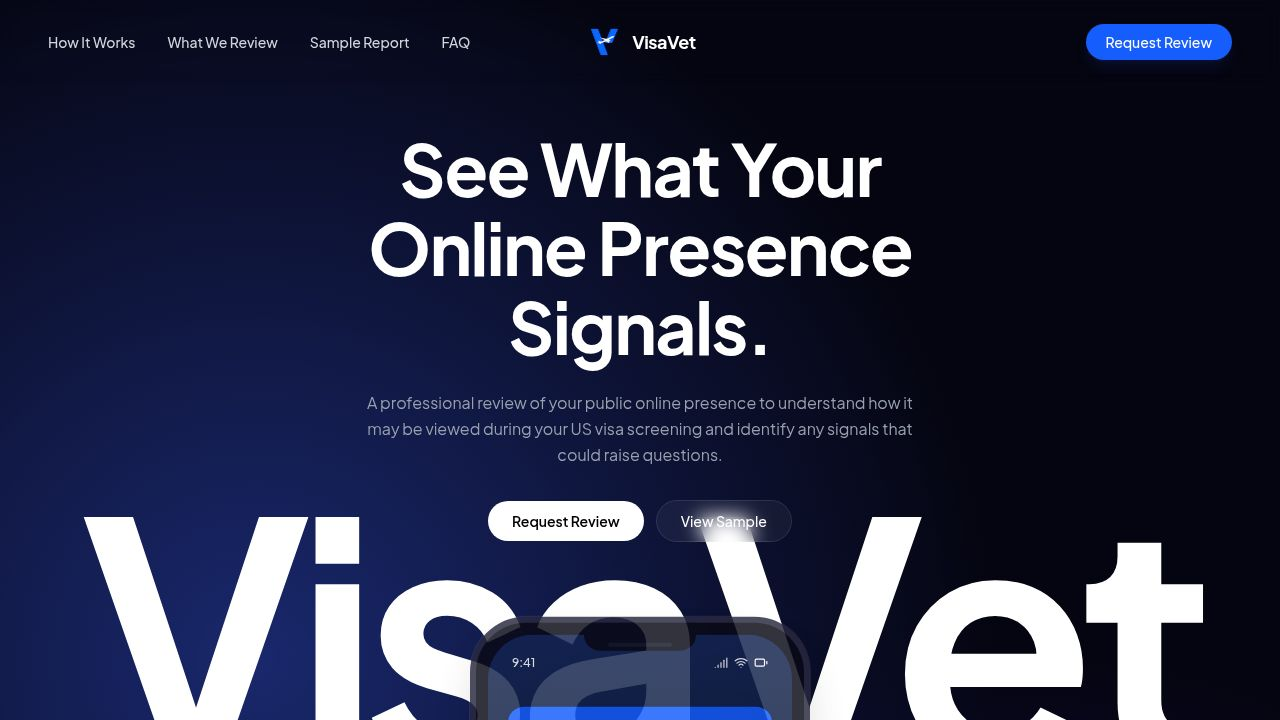
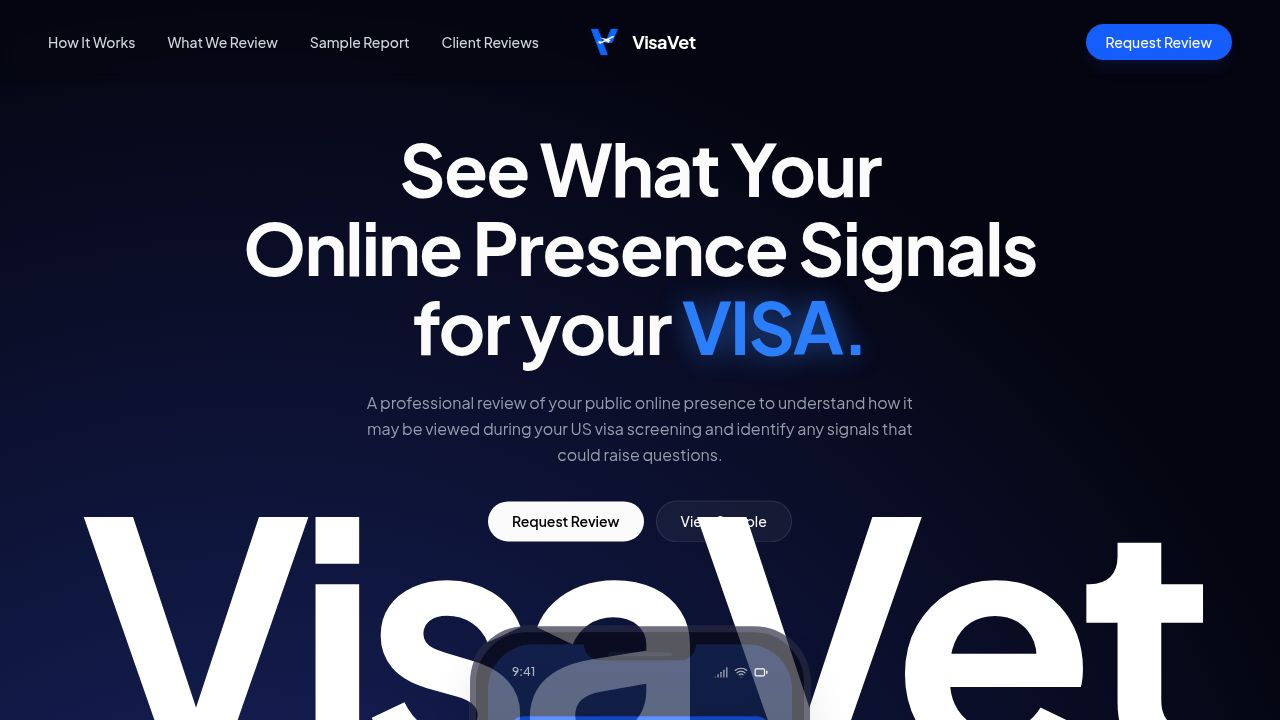
Enhance landing page with interactive reviews and mobile navigation
Adds new review items, interactive modals for step details, and implements a mobile menu with smooth scrolling functionality.

Replit-Commit-Author: Agent
Replit-Commit-Session-Id: 15fbfcdf-bfc7-42cf-a744-494d70a3ce22
Replit-Commit-Checkpoint-Type: full_checkpoint
Replit-Commit-Event-Id: e76417d7-95d0-41df-b2de-f3492c9a7300
Replit-Commit-Screenshot-Url: https://storage.googleapis.com/screenshot-production-us-central1/3131b18d-1d9a-4f0e-a2f7-0a3085cf325a/15fbfcdf-bfc7-42cf-a744-494d70a3ce22/UreXIki
Replit-Helium-Checkpoint-Created: true

diff --git a/client/src/pages/home.tsx b/client/src/pages/home.tsx
@@ -6,7 +6,10 @@ import {
   CheckCircle2, 
   ShieldCheck, 
   Download,
-  Info
+  Info,
+  Menu,
+  X as XIcon,
+  User
 } from "lucide-react";
 import logoImg from "@assets/Pink_Black_and_White_Pixelated_Pixel_Dust_Marketing_Agency_Log_1766923995371.png";
 import xLogo from "@assets/X_logo_1766920324567.png";
@@ -21,19 +24,65 @@ import { useState } from "react";
 export default function Home() {
   const [location, setLocation] = useLocation();
   const [openStep, setOpenStep] = useState<number | null>(null);
+  const [openReview, setOpenReview] = useState<number | null>(null);
+  const [mobileMenuOpen, setMobileMenuOpen] = useState(false);
 
   const scrollToSection = (id: string) => {
     const element = document.getElementById(id);
     if (element) {
       element.scrollIntoView({ behavior: 'smooth' });
+      setMobileMenuOpen(false);
     }
   };
+
+  const reviewItems = [
+    { 
+      title: "Public Posts & Content", 
+      desc: "Visible posts, captions, and shared content that contribute to your public narrative.",
+      detail: "We review publicly visible posts, captions, shared media, and text content across disclosed platforms. The focus is not on volume or frequency, but on the overall narrative created by what is visible.\n\nThis includes how topics, tone, and themes appear when viewed together rather than in isolation. Content is interpreted in context, accounting for time, platform norms, and relevance to your stated background.\n\nThe goal is to identify whether your public content presents a clear, neutral, and coherent public presence when reviewed at face value."
+    },
+    { 
+      title: "Profile Bios & Descriptions", 
+      desc: "How your self-descriptions align across platforms and with your application story.",
+      detail: "We examine profile bios, headlines, and self-descriptions across platforms to assess how consistently you describe yourself publicly.\n\nThis includes education, professional identity, affiliations, and role descriptions, and whether these align with each other and with the information typically presented in visa applications.\n\nInconsistencies are not treated as errors by default, but are noted where they could create ambiguity or confusion in a formal review setting."
+    },
+    { 
+      title: "Timeline Consistency", 
+      desc: "Public activity patterns that align with stated education, work, and travel history.",
+      detail: "We assess whether publicly visible activity patterns align broadly with your stated education, work history, and travel timeline.\n\nThis does not involve assumptions about private activity. Instead, we look at whether public signals create a reasonable and internally consistent timeline when viewed externally.\n\nThis step helps identify areas where additional clarification or context may be useful."
+    },
+    { 
+      title: "Platform Cross-Alignment", 
+      desc: "Whether different platforms tell a coherent and consistent story.",
+      detail: "Different platforms often serve different purposes. We review how your presence appears when platforms are viewed together, rather than individually.\n\nThis includes differences in tone, identity presentation, and level of formality, and whether these variations still form a coherent overall profile.\n\nThe aim is not uniformity, but recognizability and consistency at a high level."
+    },
+    { 
+      title: "Visible Affiliations", 
+      desc: "Publicly visible groups, pages, or interests you are associated with.",
+      detail: "We review publicly visible groups, pages, follows, and stated interests where accessible.\n\nThis review focuses on visibility and association, not private beliefs or intent. Affiliations are considered in context and without inference beyond what is publicly displayed.\n\nOnly clearly visible, public associations are included in this assessment."
+    },
+    { 
+      title: "Interaction Patterns", 
+      desc: "How public comments, reactions, and engagements appear in context.",
+      detail: "We examine publicly visible comments, reactions, and engagements to understand how interactions appear when viewed collectively.\n\nThis includes tone, frequency, and context, without attempting to interpret private meaning or intent.\n\nThe purpose is to assess whether public interactions contribute to a stable and professional outward presence."
+    },
+    { 
+      title: "Name & Identity Signals", 
+      desc: "Username choices, naming consistency, and recognizability across platforms.",
+      detail: "We review usernames, display names, and profile identifiers to understand how easily your identity can be recognized and linked across platforms.\n\nThis includes name consistency, recognizability, and whether profiles clearly appear to belong to the same individual.\n\nThis step helps assess clarity of public identity, not exposure level."
+    },
+    { 
+      title: "Overall Public Visibility", 
+      desc: "The level and nature of what is publicly accessible at the time of review.",
+      detail: "We assess the overall level of public exposure at the time of review — what is visible, how easily accessible it is, and how it appears when viewed as a whole.\n\nThis is not a judgment of privacy choices. Instead, it documents the scope of publicly accessible information and how it presents externally.\n\nThe outcome is a neutral visibility snapshot rather than a score or label."
+    },
+  ];
 
   return (
     <div className="min-h-screen relative flex flex-col font-sans selection:bg-blue-500/30 overflow-x-hidden">
       
       {/* Navigation */}
-      <nav className="fixed top-0 left-0 right-0 z-50 flex items-center justify-between px-6 py-6 md:px-12 max-w-7xl mx-auto w-full backdrop-blur-sm bg-[#050511]/50 md:bg-transparent">
+      <nav className="fixed top-0 left-0 right-0 z-50 flex items-center justify-between px-6 py-6 md:px-12 max-w-7xl mx-auto w-full backdrop-blur-sm bg-[#050511]/90 md:bg-[#050511]/50 md:backdrop-blur-sm border-b border-white/5 md:border-none transition-all duration-300">
         <div className="flex items-center gap-8 hidden md:flex">
           <button onClick={() => scrollToSection('how-it-works')} className="text-gray-300 hover:text-white transition-colors text-sm font-medium">How It Works</button>
           <button onClick={() => scrollToSection('what-we-review')} className="text-gray-300 hover:text-white transition-colors text-sm font-medium">What We Review</button>
@@ -41,8 +90,10 @@ export default function Home() {
           <button onClick={() => scrollToSection('reviews')} className="text-gray-300 hover:text-white transition-colors text-sm font-medium">Client Reviews</button>
         </div>
         
-        {/* Mobile Menu Placeholder (Simplified) */}
-        <div className="md:hidden text-gray-300">Menu</div>
+        {/* Mobile Menu Button */}
+        <div className="md:hidden text-gray-300 cursor-pointer" onClick={() => setMobileMenuOpen(!mobileMenuOpen)}>
+          {mobileMenuOpen ? <XIcon size={24} /> : <Menu size={24} />}
+        </div>
 
         <div className="absolute left-1/2 transform -translate-x-1/2 flex items-center justify-center gap-2 cursor-pointer" onClick={() => window.scrollTo({ top: 0, behavior: 'smooth' })}>
           <img src={logoImg} alt="VisaVet Logo" className="w-10 h-10 object-contain rounded-md" />
@@ -50,11 +101,23 @@ export default function Home() {
         </div>
 
         <div className="flex items-center gap-4">
-          <button className="bg-blue-600 hover:bg-blue-700 text-white px-5 py-2 rounded-full text-sm font-medium transition-all shadow-lg shadow-blue-900/20">
+          <button className="bg-blue-600 hover:bg-blue-700 text-white px-4 md:px-5 py-2 rounded-full text-xs md:text-sm font-medium transition-all shadow-lg shadow-blue-900/20">
             Request Review
           </button>
         </div>
       </nav>
+
+      {/* Mobile Menu Overlay */}
+      {mobileMenuOpen && (
+        <div className="fixed inset-0 z-40 bg-[#050511] pt-24 px-6 md:hidden animate-in slide-in-from-top-10 duration-200">
+           <div className="flex flex-col gap-6 text-lg">
+              <button onClick={() => scrollToSection('how-it-works')} className="text-left text-gray-300 hover:text-white border-b border-white/10 pb-4">How It Works</button>
+              <button onClick={() => scrollToSection('what-we-review')} className="text-left text-gray-300 hover:text-white border-b border-white/10 pb-4">What We Review</button>
+              <button onClick={() => scrollToSection('sample-report')} className="text-left text-gray-300 hover:text-white border-b border-white/10 pb-4">Sample Report</button>
+              <button onClick={() => scrollToSection('reviews')} className="text-left text-gray-300 hover:text-white border-b border-white/10 pb-4">Client Reviews</button>
+           </div>
+        </div>
+      )}
 
       {/* Hero Section */}
       <section className="flex flex-col items-center justify-center pt-32 pb-24 relative z-10 px-4 w-full min-h-[90vh]">
@@ -245,11 +308,14 @@ export default function Home() {
               
               <div className="relative z-10 space-y-16">
                 <div>
-                  <h2 className="text-3xl md:text-4xl font-bold tracking-tight text-white mb-2">
+                  <h2 className="text-4xl md:text-5xl font-bold tracking-tight text-white mb-2 animate-in fade-in slide-in-from-bottom-4 duration-1000">
                     How VisaVet Works
                   </h2>
-                  <p className="text-gray-400 text-sm md:text-base">
-                    A structured, context-aware review — not a scan.
+                  <p className="text-blue-400 text-sm md:text-base font-medium mb-4">
+                    Not an automated scan or AI summary.
+                  </p>
+                  <p className="text-gray-400 text-sm md:text-base leading-relaxed opacity-0 animate-in slide-in-from-left-3 fade-in duration-700 fill-mode-forwards" style={{ animationDelay: '150ms' }}>
+                    Each review combines technology-assisted analysis with careful human evaluation, reflecting how modern visa screening interprets public digital signals.
                   </p>
                 </div>
 
@@ -414,28 +480,26 @@ export default function Home() {
            </h2>
 
            <div className="grid grid-cols-1 sm:grid-cols-2 lg:grid-cols-4 gap-6">
-              {[
-                { title: "Public social media posts", desc: "We review publicly visible posts across major platforms." },
-                { title: "Profile biographies", desc: "Bios are checked for consistency and clarity." },
-                { title: "Usernames and identifiers", desc: "We look at how identifiers appear across platforms." },
-                { title: "Employment references", desc: "Public mentions of work history are reviewed." },
-                { title: "Education references", desc: "Publicly stated education details are checked." },
-                { title: "Location indicators", desc: "Public location signals are reviewed for consistency." },
-                { title: "Public comments", desc: "Visible interactions are included in the review." },
-                { title: "Shared links and content", desc: "Frequently shared content is reviewed at a high level." },
-                { title: "Group associations", desc: "Public group affiliations are considered." },
-                { title: "Account visibility", desc: "We confirm what information is publicly accessible." },
-                { title: "Timeline consistency", desc: "Public timelines are reviewed for alignment." },
-                { title: "Language tone", desc: "General tone is reviewed contextually." },
-                { title: "Public profile images", desc: "Profile images are reviewed as part of identity context." },
-                { title: "Activity frequency", desc: "Activity patterns are observed at a high level." },
-                { title: "Search visibility", desc: "We check what appears when names are searched publicly." },
-                { title: "General footprint", desc: "A summary view of overall public presence." },
-              ].map((item, index) => (
-                <div key={index} className="bg-white/95 backdrop-blur-sm rounded-lg p-6 shadow-[0_0_20px_rgba(59,130,246,0.1)] hover:shadow-[0_0_25px_rgba(59,130,246,0.2)] transition-shadow duration-500">
-                  <h3 className="text-black font-bold text-sm mb-2">{item.title}</h3>
-                  <p className="text-gray-600 text-xs leading-relaxed">{item.desc}</p>
-                </div>
+              {reviewItems.map((item, index) => (
+                <Dialog key={index} open={openReview === index} onOpenChange={(open) => setOpenReview(open ? index : null)}>
+                  <DialogTrigger asChild>
+                    <div className="bg-white/95 backdrop-blur-sm rounded-lg p-8 shadow-[0_0_20px_rgba(59,130,246,0.1)] hover:shadow-[0_0_30px_rgba(59,130,246,0.3)] transition-all duration-500 cursor-pointer min-h-[160px] flex flex-col justify-center">
+                      <h3 className="text-black font-bold text-sm mb-3">{item.title}</h3>
+                      <p className="text-gray-600 text-xs leading-relaxed">{item.desc}</p>
+                    </div>
+                  </DialogTrigger>
+                  <DialogContent className="bg-white text-black border-none max-w-lg p-8 rounded-2xl">
+                     <div className="space-y-4">
+                        <h3 className="text-xl font-bold">{item.title}</h3>
+                        <div className="text-gray-700 leading-relaxed whitespace-pre-line text-sm">
+                          {item.detail}
+                        </div>
+                        <div className="pt-4 flex justify-end">
+                          <button onClick={() => setOpenReview(null)} className="text-sm font-semibold text-gray-500 hover:text-black transition-colors">Close</button>
+                        </div>
+                     </div>
+                  </DialogContent>
+                </Dialog>
               ))}
            </div>
          </div>
@@ -453,16 +517,26 @@ export default function Home() {
         <div className="relative w-full overflow-hidden">
            <div className="flex animate-marquee hover:[animation-play-state:paused] w-max gap-8 px-8">
               {[
-                { quote: "The process felt thoughtful and measured. The report didn’t rush to conclusions, which made it easier to trust.", role: "F-1 Applicant" },
-                { quote: "What stood out was the context. It wasn’t just about posts, but how everything fits together.", role: "H-1B Applicant" },
-                { quote: "This felt closer to an advisory service than a tool. That mattered to us.", role: "Parent of Graduate Student" },
-                { quote: "The process felt thoughtful and measured. The report didn’t rush to conclusions, which made it easier to trust.", role: "F-1 Applicant" },
-                { quote: "What stood out was the context. It wasn’t just about posts, but how everything fits together.", role: "H-1B Applicant" },
-                { quote: "This felt closer to an advisory service than a tool. That mattered to us.", role: "Parent of Graduate Student" },
+                { quote: "The process felt thoughtful and measured. The report didn’t rush to conclusions, which made it easier to trust.", name: "Ananya R.", role: "F-1 Applicant" },
+                { quote: "What stood out was the context. It wasn’t just about posts, but how everything fits together.", name: "Divesh K.", role: "H-1B Renewal" },
+                { quote: "This felt closer to an advisory service than a tool. That mattered to us.", name: "Rohit A.", role: "Parent of Graduate Student" },
+                { quote: "Professional and discreet. They found an old account I had completely forgotten about.", name: "Sarah M.", role: "O-1 Applicant" },
+                { quote: "Clear, actionable advice. I feel much more prepared for my interview now.", name: "Michael T.", role: "B1/B2 Visitor" },
+                { quote: "The process felt thoughtful and measured. The report didn’t rush to conclusions, which made it easier to trust.", name: "Ananya R.", role: "F-1 Applicant" },
+                { quote: "What stood out was the context. It wasn’t just about posts, but how everything fits together.", name: "Divesh K.", role: "H-1B Renewal" },
+                { quote: "This felt closer to an advisory service than a tool. That mattered to us.", name: "Rohit A.", role: "Parent of Graduate Student" },
               ].map((review, i) => (
-                <div key={i} className="bg-blue-600 border border-blue-500/30 shadow-[0_0_20px_rgba(255,255,255,0.1)] rounded-xl p-8 w-[400px] flex-shrink-0">
-                   <p className="text-white text-sm leading-relaxed mb-6 font-medium">"{review.quote}"</p>
-                   <div className="text-blue-100 text-xs font-bold uppercase tracking-wider">{review.role}</div>
+                <div key={i} className="bg-blue-600 border border-blue-500/30 shadow-[0_0_30px_rgba(255,255,255,0.15)] rounded-xl p-8 w-[450px] flex-shrink-0 transition-transform hover:scale-[1.01]">
+                   <p className="text-white text-base leading-relaxed mb-6 font-medium">"{review.quote}"</p>
+                   <div className="flex items-center gap-3">
+                      <div className="w-8 h-8 rounded-full bg-blue-500/50 flex items-center justify-center">
+                        <User size={16} className="text-white" />
+                      </div>
+                      <div>
+                        <div className="text-white font-bold text-sm">{review.name}</div>
+                        <div className="text-blue-200 text-xs uppercase tracking-wider">{review.role}</div>
+                      </div>
+                   </div>
                 </div>
               ))}
            </div>
